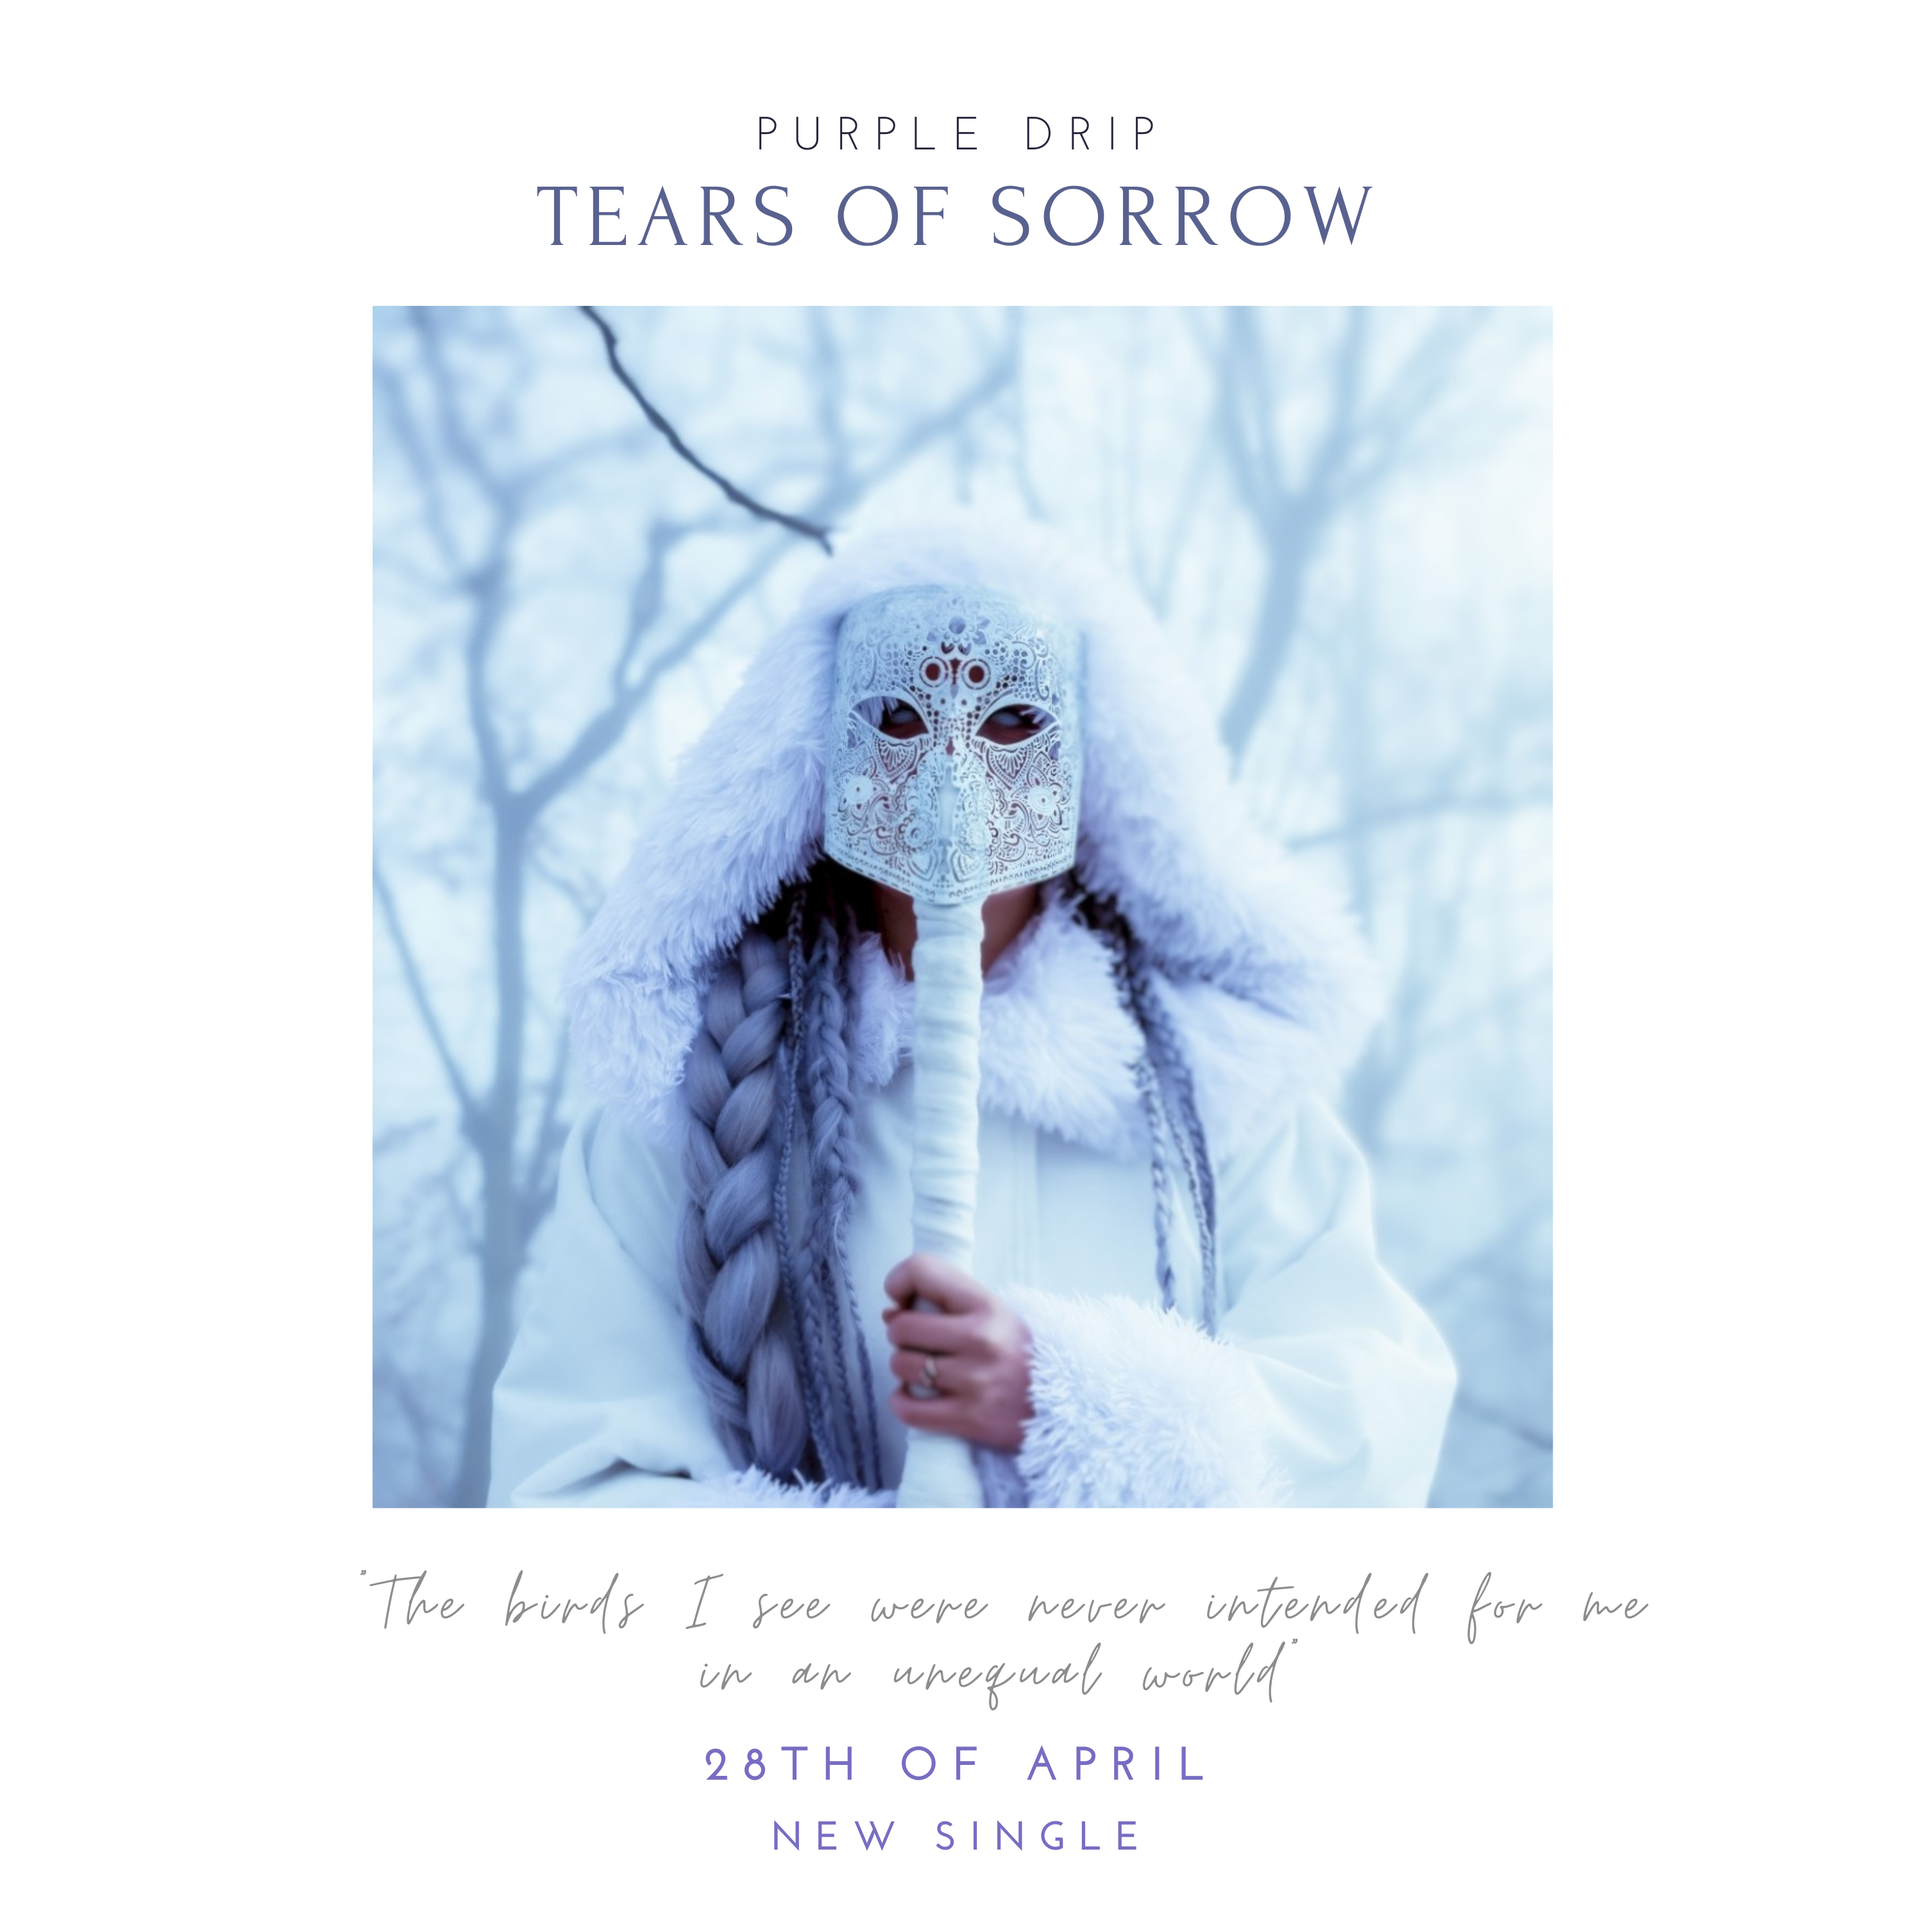
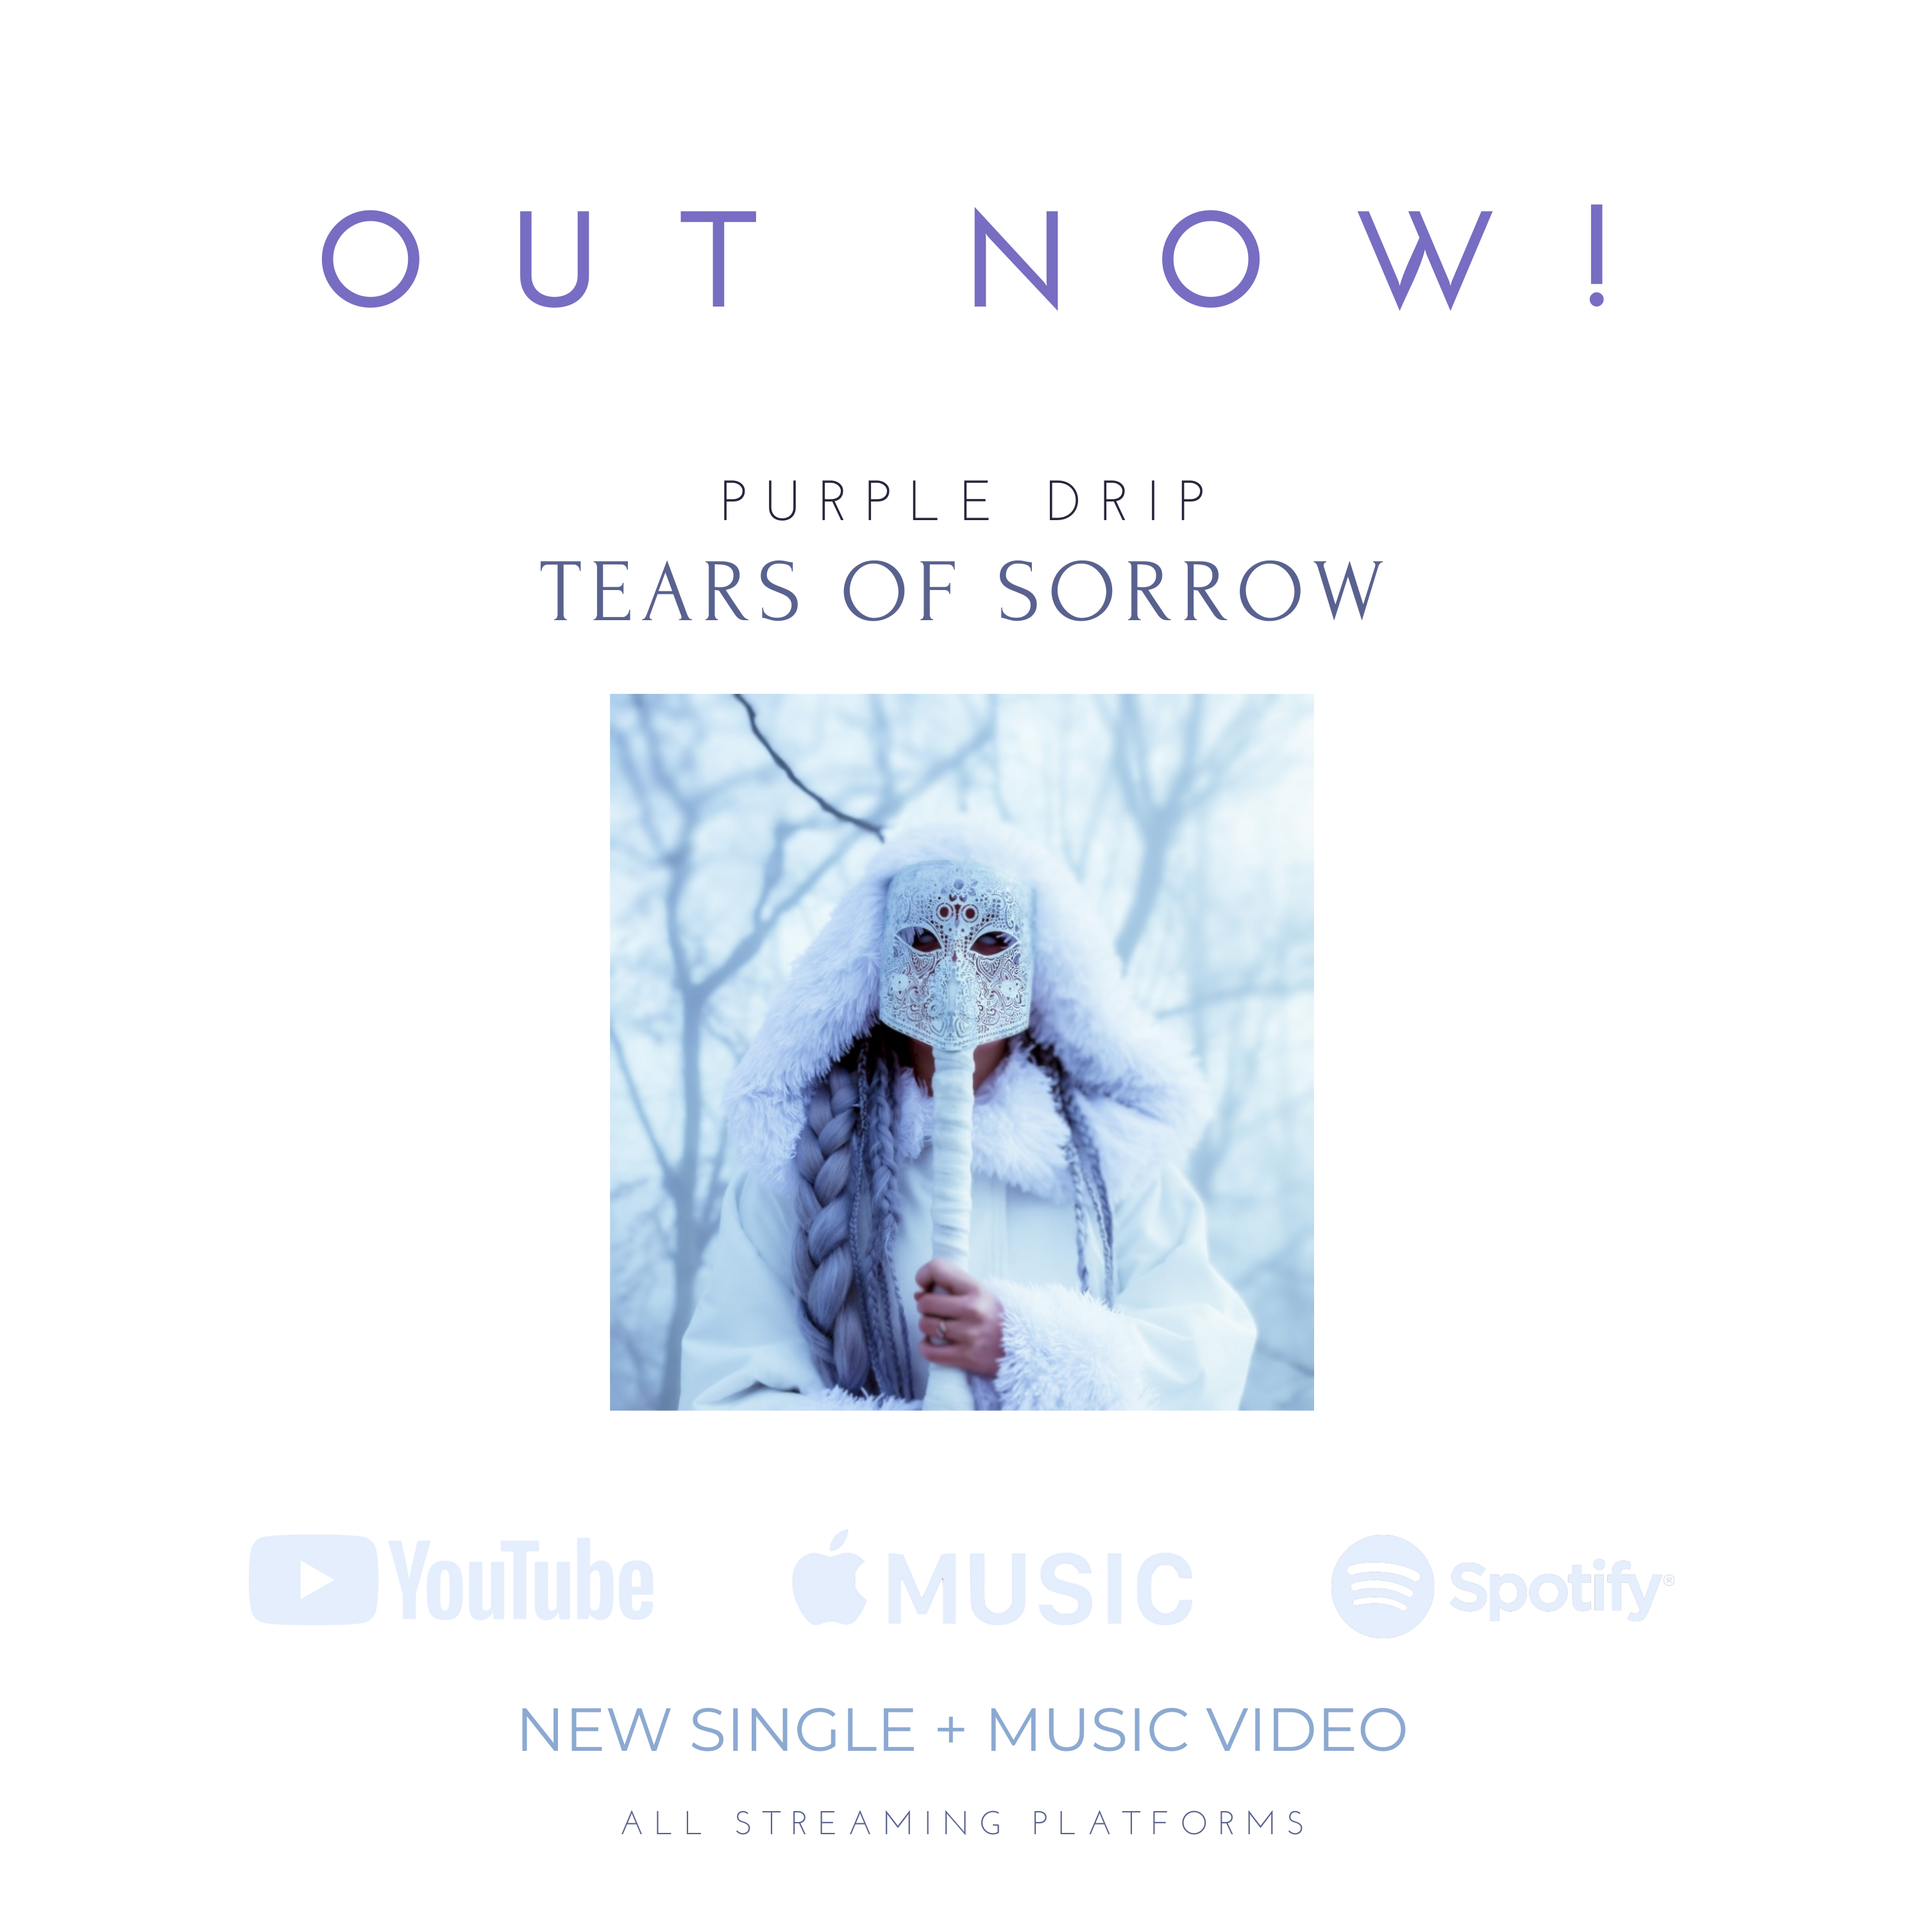
updated video and out now link

diff --git a/src/components/HeroBanner/MyPortfolio/index.js b/src/components/HeroBanner/MyPortfolio/index.js
@@ -9,8 +9,8 @@ const BannerMyPortfolio = () => {
         <h2>Hello , I’m</h2>
         <h1>{personalInfo.name}</h1>
         <h2>{personalInfo.designation}</h2>
-        <a target="_blank" href={`https://linktr.ee/zoranaism`}>
-          "Tears of sorrow" is OUT NOW!
+        <a target="_blank" href={`https://www.youtube.com/watch?v=NBiIf7ilQE4`}>
+          Watch "Tears of sorrow" now!
         </a>
       </div>
     </HeroBannerContainer>

diff --git a/src/container/team/index.js b/src/container/team/index.js
@@ -34,7 +34,7 @@ const PersonalPortfolioTeam = () => {
     {
       id: 1,
       media: "link",
-      url: "https://nfan.link/tears-of-sorrow-pre-save",
+      url: "https://linktr.ee/zoranaism",
     },
   ];
 
